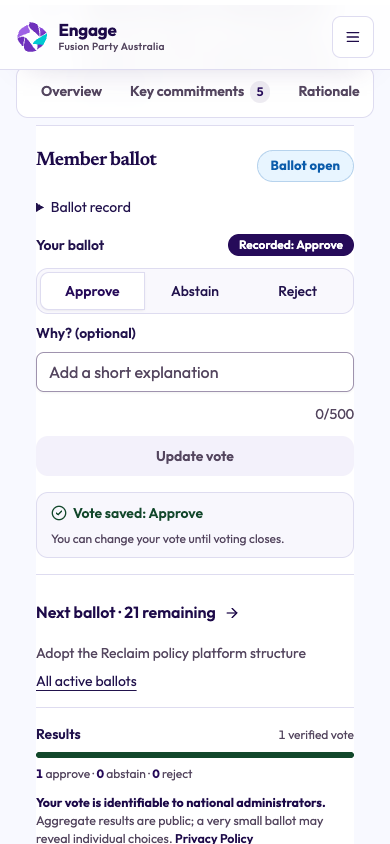
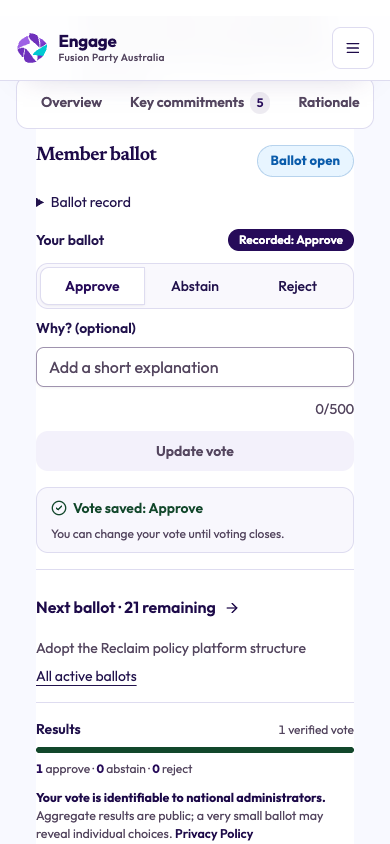
fix(voting): refresh proposal hero after saving a vote

diff --git a/docs/proposal-experience/verification.md b/docs/proposal-experience/verification.md
@@ -12,7 +12,7 @@ Lifecycle tabs and one participation filter replace overlapping controls. Explic
 
 - `npm test`: 169 passed, 15 skipped (optional integration coverage).
 - `npm run check`: zero errors and warnings; existing hints remain.
-- `npm run build`: passed. No separate lint script is configured.
+- `npm run build`: passed, including an exported source tree without `.git`. No separate lint script is configured.
 - Isolated Chrome, 1440×1000 and 390×844: save, revisit and update a vote; server-confirmed persisted choices; skip without recording a vote; retry after a simulated server failure while preserving choice; completion after all eligible ballots; explicit opt-out through lifecycle tabs and browser back/forward; no matching search results; no horizontal overflow or uncaught browser errors.
 - Existing branch participation tests pass, including equivalence of outstanding counts when reusing discovery data. Branch permutations are covered by automated tests rather than authenticated screenshots of real members.
 - Screenshots use synthetic preview accounts and in-memory data, with 23 ballots opened through the administration API. Desktop and mobile runs use successive outstanding proposals; dates and counts reflect the capture session. Baseline: `50a7710`. Screenshots are in `docs/screenshots/proposal-experience/`.
